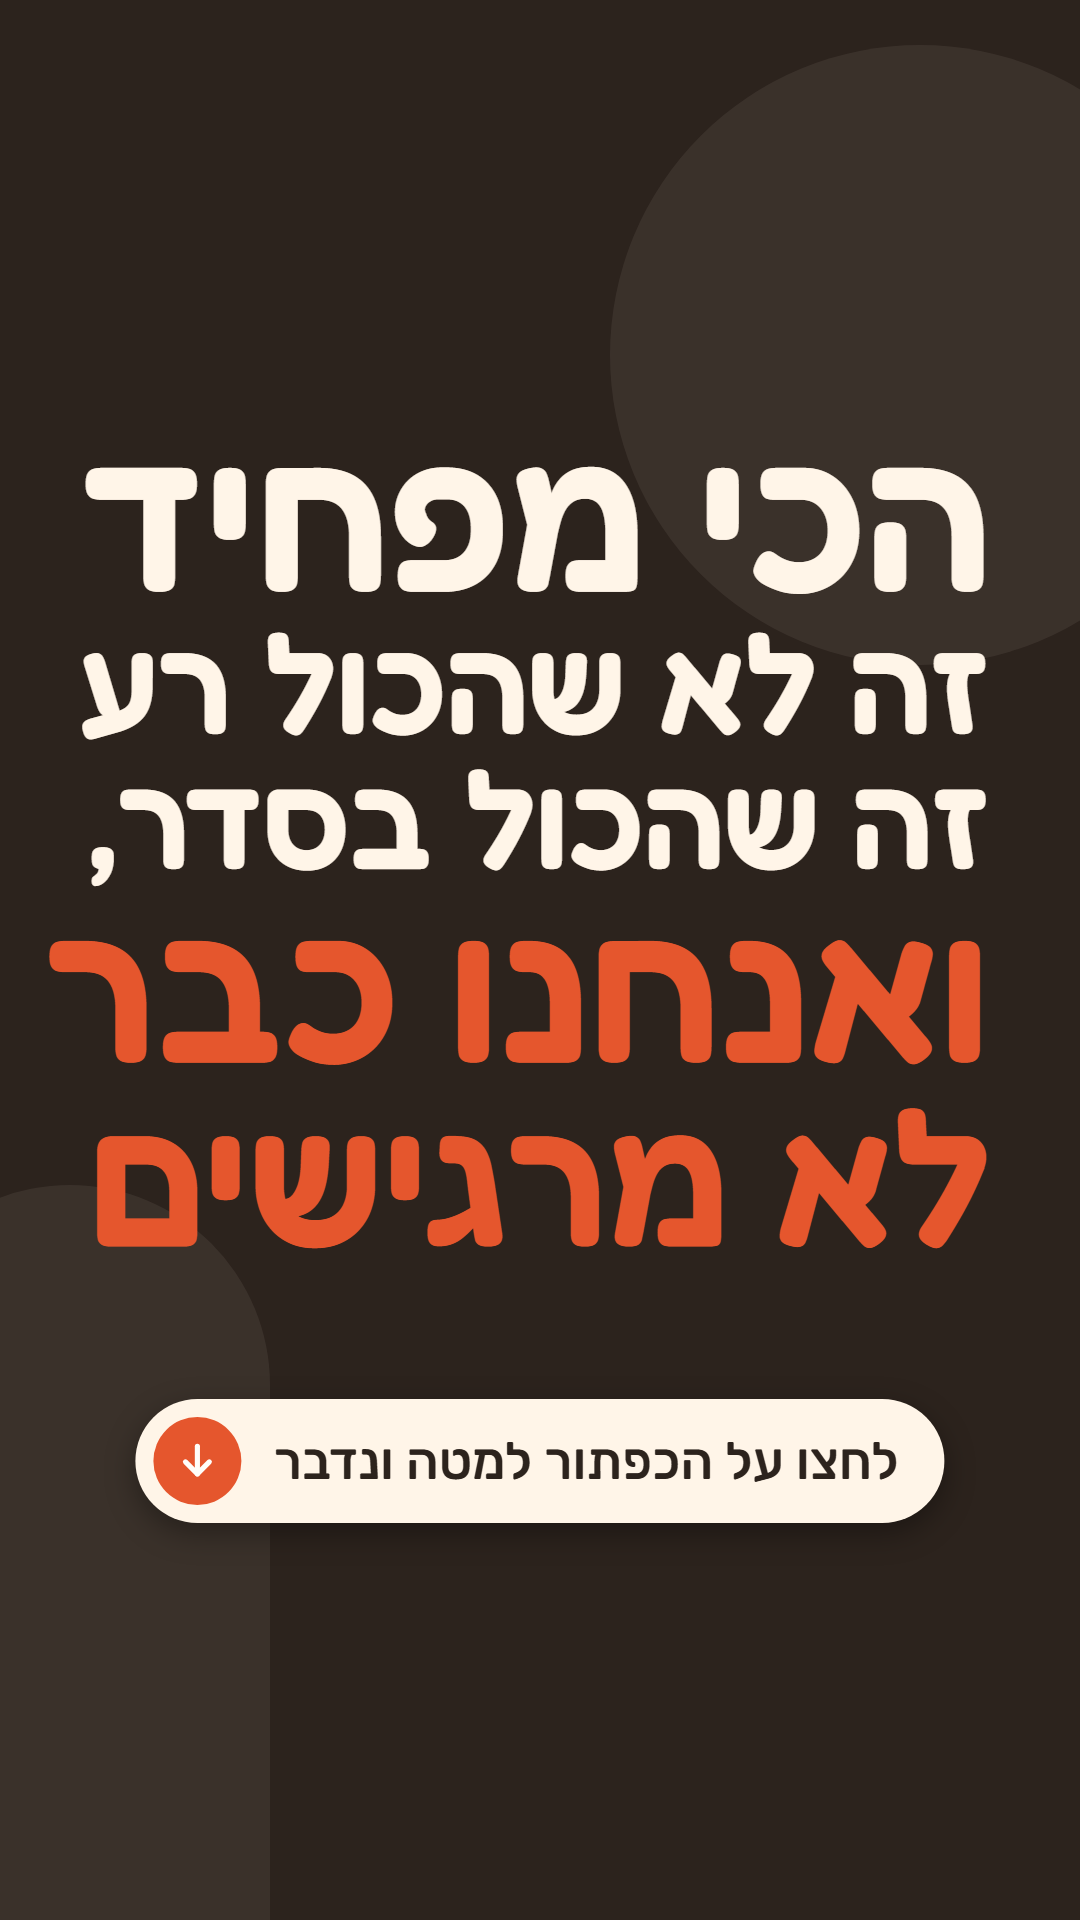
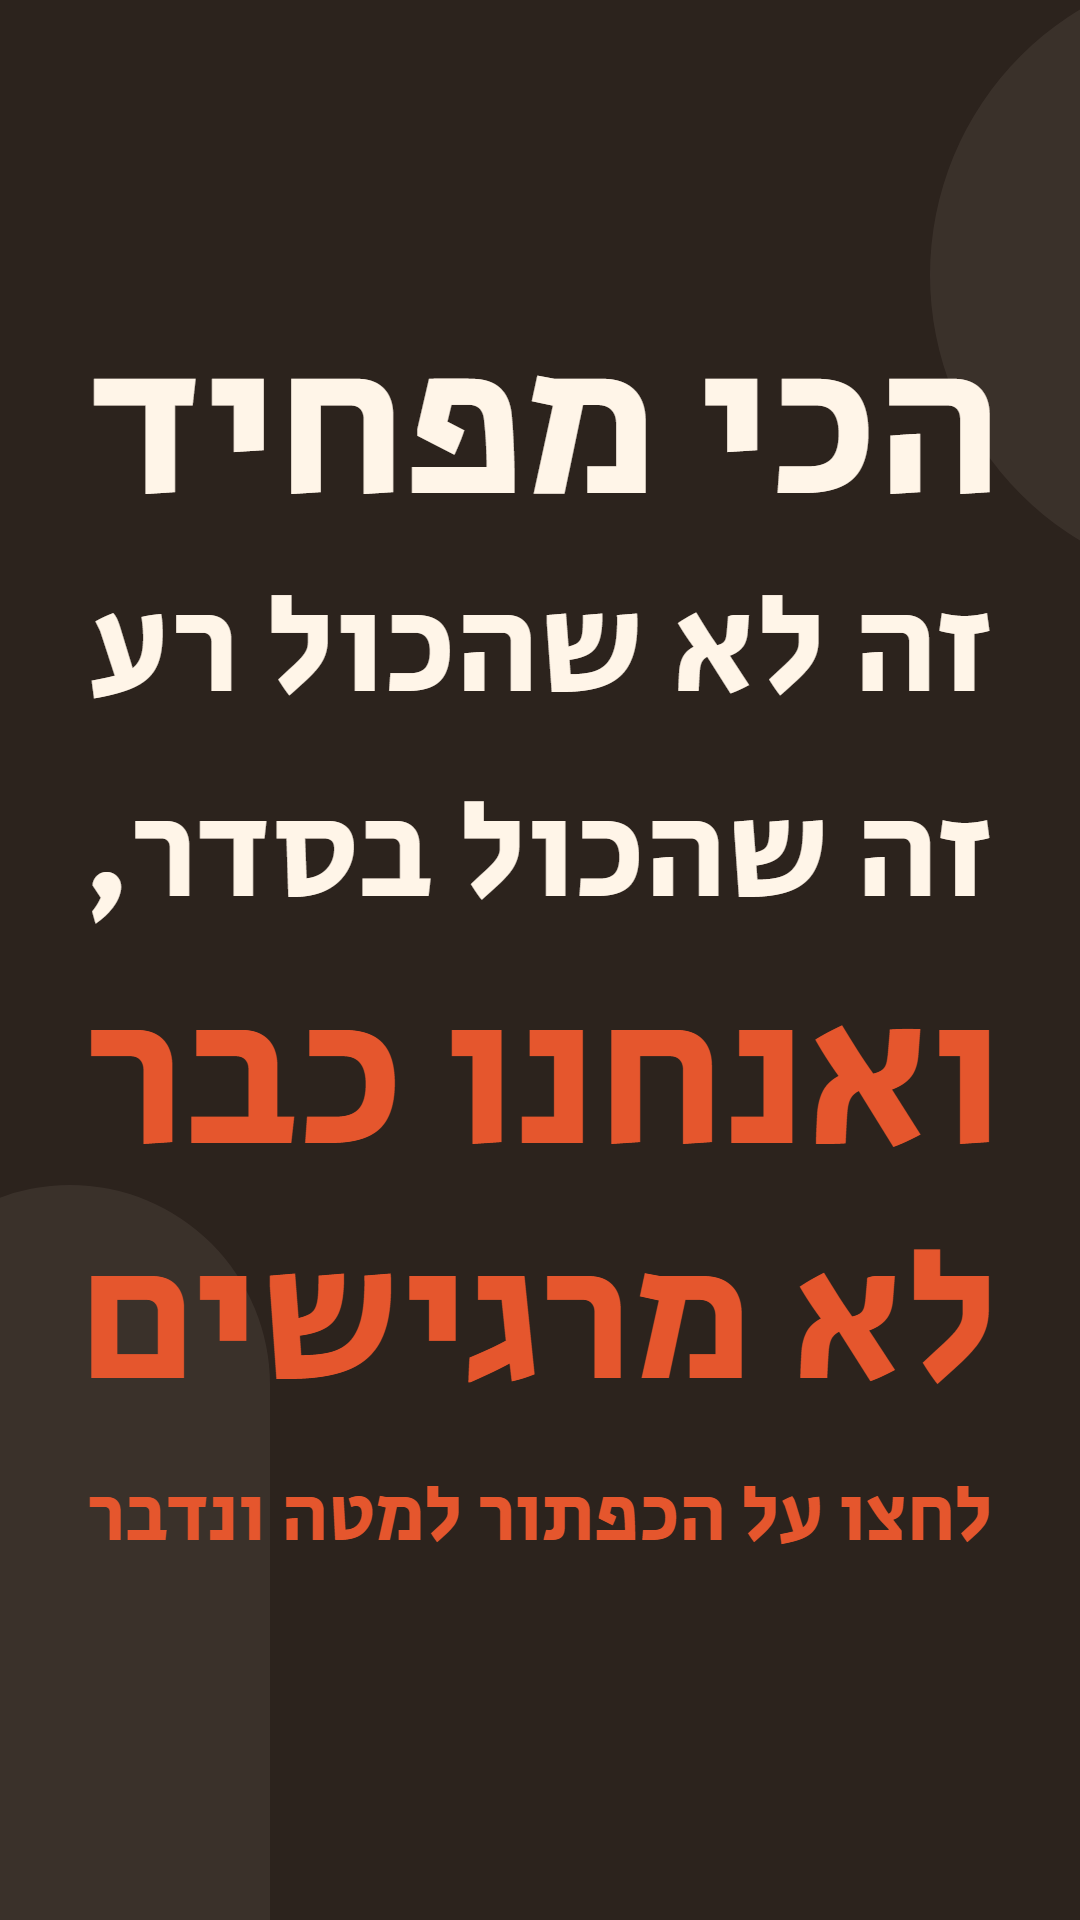
מודעות צ'אט: מלבן 4:5 עם ריפוד שווה מארבעה צדדים, טקסט צפוף וגופן מרובע

Changed region(s): [[0.0306, 0.1875, 0.9167, 0.8125]]

diff --git a/ads/tools/build_chat_ads.py b/ads/tools/build_chat_ads.py
@@ -1,54 +1,52 @@
-# מודעות פייסבוק לצ'אט (chat/): תמונת טקסט 9:16 (1080x1920), כל התוכן באזור בטוח 4:5, שני צבעים, בלי צילומים.
-# הטקסטים מ-chat/openers.json (המפתח = ?c= בקישור). מה שב-[ ] מודגש. בתחתית: שורת הפניה לכפתור של פייסבוק שמתחת למודעה (חץ למטה), במקום שורת החיפוש של מודעות הגוגל.
-# הרצה: python ads/tools/build_chat_ads.py   -> ads/chat/img/chat-<מפתח>-916.png  (דורש Chrome)
+# מודעות פייסבוק לצ'אט (chat/): תמונת טקסט 9:16 (1080x1920). כל התוכן באזור הבטוח 4:5 (1080x1350, y 285 עד 1635), שני צבעים, בלי צילומים.
+# מלבן 4:5 דמיוני באמצע עם ריפוד של 90px, והטקסט ממלא את פנים הריפוד (900x1170): כל שורה מוגדלת או מוקטנת לאותו רוחב בדיוק,
+# והמרווח האנכי מתפזר כך שגם הגובה מתמלא. מילים קצרות וחזקות נעשות ענקיות, שורות ארוכות קטנות. השורה האחרונה מפנה לכפתור של פייסבוק שמתחת למודעה.
+# הטקסט המלא חייב להיות זהה ל-chat/openers.json (בלי נקודות בתמונה). הרצה: python ads/tools/build_chat_ads.py  -> ads/chat/img/chat-<מפתח>-916.png  (דורש Chrome)
 import json, pathlib, subprocess, tempfile, sys, html
 sys.path.insert(0, str(pathlib.Path(__file__).parent))
 import build_ads as B
 ROOT = B.ROOT
-# מפתח -> (שורות, צבע הדגשה חי מהפלטה: coral / sage / terra, על רקע ink). כל שורה: (טקסט, צבע). הטקסט כולו נפרש כמלבן אחד:
-# כל שורה מוגדלת או מוקטנת לאותו רוחב בדיוק, ולכן מילים קצרות וחזקות נעשות ענקיות ושורות ארוכות קטנות. הטקסט המלא זהה ל-chat/openers.json.
+PAD = 90
+IN_W, IN_H = B.W - 2 * PAD, 1350 - 2 * PAD       # פנים הריפוד: 900x1170
+CTA = "לחצו על הכפתור למטה ונדבר"
+# מפתח -> (שורות (טקסט, צבע), צבע הדגשה חי מהפלטה: coral / sage / terra, על רקע ink)
 ADS = {
   "touch": ([("כמה זמן עבר", "fg"), ("מאז שמישהו", "fg"), ("חיבק", "acc"), ("אותנו", "fg"), ("בלי סיבה?", "fg")], "#FF8A5C"),
   "mask": ([("העייפות הכי גדולה", "fg"), ("היא לא מהעבודה", "fg"), ("היא מלהיות", "fg"), ("בסדר", "acc"), ("כל היום", "fg")], "#8DB255"),
   "numb": ([("הכי מפחיד", "fg"), ("זה לא שהכול רע", "fg"), ("זה שהכול בסדר,", "fg"), ("ואנחנו כבר", "acc"), ("לא מרגישים", "acc")], "#E5562D"),
 }
-CTA = "לחצו על הכפתור למטה ונדבר"
 
+FONT = "Secular One"   # גופן מרובע וכבד (בלי עיגול). חלופה: Heebo 900
 def page(lines, acc):
     bg, fg, deco = "#2C231D", "#FFF5E8", "rgba(255,245,232,.07)"   # ink, cream
-    rows = ''.join(f'<div class="{"acc" if c == "acc" else ""}"><span>{html.escape(t)}</span></div>' for t, c in lines)
-    top, bot = B.SAFE + 120, B.SAFE + 350
-    ch = B.H - top - bot
+    data = json.dumps([[t, c] for t, c in lines], ensure_ascii=False)
+    fam = FONT.replace(" ", "+")
     return f'''<!doctype html><html lang="he" dir="rtl"><head><meta charset="utf-8">
-<link href="https://fonts.googleapis.com/css2?family=Fredoka:wght@600&family=Rubik:wght@500;600;700&display=swap" rel="stylesheet">
-<style>
-*{{box-sizing:border-box;margin:0}}
-html,body{{width:{B.W}px;height:{B.H}px;overflow:hidden}}
-body{{background:{bg};color:{fg};font-family:Fredoka,Rubik,sans-serif;position:relative}}
-.c1{{position:absolute;right:-150px;top:{B.SAFE-240}px;width:620px;height:620px;border-radius:50%;background:{deco}}}
-.c2{{position:absolute;left:-130px;bottom:0;width:400px;height:{450+B.SAFE}px;border-radius:200px 200px 0 0;background:{deco}}}
-.main{{position:absolute;left:90px;right:90px;top:{top}px;height:{ch}px;display:flex;align-items:center;justify-content:center;text-align:center}}
-#t{{font-weight:600;line-height:1.18}}
-#t{{width:900px}}
-#t div{{white-space:nowrap;line-height:.92;height:auto;overflow:visible}}
-#t div span{{display:inline-block}}
-#t .acc{{color:{acc}}}
-.chat{{position:absolute;bottom:{B.SAFE+112}px;left:50%;transform:translateX(-50%);height:124px;display:flex;align-items:center;gap:26px;
-  padding:0 46px 0 18px;border-radius:999px;background:#FFF5E8;border:0;box-shadow:0 10px 30px rgba(0,0,0,.35);white-space:nowrap}}
-.chat .q{{font-family:Rubik;font-size:52px;font-weight:500;color:#2C231D;line-height:1;display:flex;align-items:center}}
-.chat .caret{{display:inline-block;width:5px;height:60px;border-radius:3px;background:#E5562D;margin-right:16px}}
-.chat .go{{width:88px;height:88px;border-radius:50%;background:#E5562D;display:grid;place-items:center;flex:none;margin-right:6px}}
-.chat .go svg{{width:44px;height:44px}}
-</style></head><body>
-<div class="c1"></div><div class="c2"></div>
-<div class="main"><div id="t">{rows}</div></div>
-<div class="chat"><span class="q">{CTA}</span>
-<span class="go"><svg viewBox="0 0 24 24" fill="none" stroke="#FFFDF9" stroke-width="2.8" stroke-linecap="round" stroke-linejoin="round"><path d="M12 4v15"/><path d="m5.5 12.5 6.5 6.5 6.5-6.5"/></svg></span></div>
+<link href="https://fonts.googleapis.com/css2?family={fam}&display=block" rel="stylesheet">
+<style>*{{margin:0}}html,body{{width:{B.W}px;height:{B.H}px;overflow:hidden;background:{bg}}}canvas{{display:block}}pre{{display:none}}</style></head><body>
+<canvas id="c" width="{B.W}" height="{B.H}"></canvas><pre id="s"></pre>
 <script>
-const t=document.getElementById('t'), box=t.parentElement;
-function lay(W){{ t.style.width=W+'px'; for(const d of t.children){{ const sp=d.firstElementChild; d.style.fontSize='100px'; const w=sp.getBoundingClientRect().width; d.style.fontSize=(100*W/w)+'px'; d.style.marginBottom=(W*0.012)+'px'; }} }}
-let W=900; lay(W);
-if(t.offsetHeight>box.clientHeight){{ W=Math.floor(W*box.clientHeight/t.offsetHeight); lay(W); }}
+// פריסה לפי הדיו עצמו: כל שורה ברוחב דיו של IN_W בדיוק, מרווחים אנכיים שווים וצפופים, וריפוד זהה מארבעת הצדדים של המלבן 4:5.
+// הטקסט מפוצל לשורות כך שהגובה ימלא את המלבן בדיוק עם מרווח קטן; מילה מודגשת תמיד בשורה משלה, והשורה האחרונה (ההפניה לכפתור) קבועה.
+const SRC={data}, CTA={json.dumps(CTA, ensure_ascii=False)}, ACC='{acc}', FG='{fg}', W={B.W}, H={B.H}, X0={PAD}, Y0={B.SAFE}+{PAD}, IN_W={IN_W}, IN_H={IN_H}, FAM='"{FONT}"', GAP=14;
+const c=document.getElementById('c'), x=c.getContext('2d');
+function ink(t, fs){{ x.font=fs+'px '+FAM; x.direction='rtl'; const m=x.measureText(t); return {{l:m.actualBoundingBoxLeft, r:m.actualBoundingBoxRight, a:m.actualBoundingBoxAscent, d:m.actualBoundingBoxDescent}}; }}
+function fit(t){{ const i=ink(t,100), fs=100*IN_W/Math.abs(i.l+i.r), j=ink(t,fs); return {{fs, h:j.a+j.d}}; }}
+// קבוצות רצופות לפי צבע; בתוך קבוצת טקסט רגיל מותר לפצל לכמה שורות
+function groups(){{ const g=[]; for(const [t,col] of SRC){{ const last=g[g.length-1]; if(last&&last.col===col&&col==='fg') last.t.push(t); else g.push({{col, t:[t]}}); }} return g; }}
+function go(){{
+  x.fillStyle='{bg}'; x.fillRect(0,0,W,H); x.fillStyle='{deco}'; x.beginPath(); x.arc(W+160,{B.SAFE-240}+230,310,0,7); x.fill();
+  x.beginPath(); x.moveTo(-130,H); x.lineTo(-130,H-{450+B.SAFE}+200); x.arc(70,H-{450+B.SAFE}+200,200,Math.PI,0); x.lineTo(270,H); x.fill();
+  // מועמדים לשורות: כל SRC כבר מפוצל לשורות לפי הכותרות; אפשר לאחד שורות סמוכות מאותו צבע, או (כאן) להשאיר כמו שהן ולכוון רק רווחים.
+  let lines=SRC.map(([t,c])=>({{t,c}})); lines.push({{t:CTA, c:'acc'}});
+  const m=lines.map(l=>fit(l.t)); let sum=m.reduce((p,q)=>p+q.h,0), n=lines.length, gap=(IN_H-sum)/(n-1), k=1;
+  if(gap<GAP){{ k=(IN_H-GAP*(n-1))/sum; gap=GAP; }}
+  let y=Y0, stats=[]; const ws=IN_W*k, left=X0+(IN_W-ws)/2;
+  lines.forEach((l,i)=>{{ const fs=m[i].fs*k, j=ink(l.t,fs); x.font=fs+'px '+FAM; x.direction='rtl'; x.textAlign='right'; x.fillStyle=l.c==='acc'?ACC:FG;
+    x.fillText(l.t, left+ws-j.r, y+j.a); stats.push([Math.round(left),Math.round(y),Math.round(left+ws),Math.round(y+j.a+j.d)]); y+=j.a+j.d+gap; }});
+  document.getElementById('s').textContent=JSON.stringify({{k,gap,sum,stats}});
+}}
+document.fonts.load('100px {FONT}','אבגדהוזחטיכלמנסעפצקרשת?').then(()=>setTimeout(go,50));
 </script></body></html>'''
 
 def main():
@@ -57,7 +55,7 @@ def main():
     openers = json.loads((ROOT/"chat"/"openers.json").read_text(encoding="utf-8"))["items"]
     for key, (lines, acc) in ADS.items():
         full = " ".join(t for t, _ in lines)
-        assert key not in openers or full.replace("'", "") == openers[key]["ad"].replace(".", "").replace("‘", "").replace("’", "").replace("'", ""), key + ": הטקסט שונה מ-chat/openers.json: " + full
+        assert key not in openers or full == openers[key]["ad"].replace(".", "").replace("‘", "").replace("’", "").replace("'", ""), key + ": הטקסט שונה מ-chat/openers.json: " + full
         f = tmp/(key+".html"); f.write_text(page(lines, acc), encoding="utf-8")
         name = f"chat-{key}-916.png"
         subprocess.run([B.CHROME, "--headless", "--disable-gpu", "--hide-scrollbars", f"--window-size={B.W},{B.H}", "--virtual-time-budget=6000",
